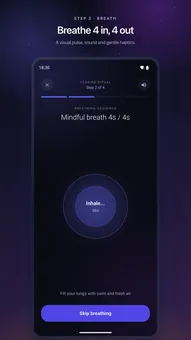
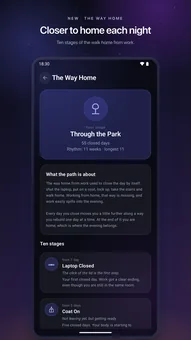
CL-WEB: novinky verze 1.3.0 a nové screenshoty
- nová sekce o Cestě domů a Noční obloze, odkaz v navigaci
- aktualizovaný seznam funkcí a odstavec o soukromí (volitelná diagnostika)
- osm screenshotů z Google Play 1.3.0, @2x verze přes srcset
- navigace se vejde i na úzké displeje
- .idea/ v .gitignore

diff --git a/index.html b/index.html
@@ -125,6 +125,7 @@
   }
 
   .site-nav a{
+    white-space:nowrap;
     font-size:14px;
     color:var(--muted);
     text-decoration:none;
@@ -151,6 +152,16 @@
 
   @media (max-width:560px){
     .site-nav ul{ gap:18px; }
+  }
+
+  @media (max-width:420px){
+    .site-nav ul{ gap:12px; }
+    .site-nav a{ font-size:13px; }
+    .site-nav .mark{ font-size:17px; }
+  }
+
+  @media (max-width:374px){
+    .site-nav .nav-screens{ display:none; }
   }
 
   /* ---------- Hero ---------- */
@@ -308,6 +319,13 @@
     font-weight:600;
     font-size:17px;
     margin:0 0 6px;
+  }
+
+  .step-icon{
+    width:24px;
+    height:24px;
+    display:block;
+    margin-top:4px;
   }
 
   .step p{
@@ -529,7 +547,8 @@
     <span class="mark">ClockOut</span>
     <ul>
       <li><a href="#ritual">Ritual</a></li>
-      <li><a href="#screens">Screens</a></li>
+      <li><a href="#way-home">Way home</a></li>
+      <li class="nav-screens"><a href="#screens">Screens</a></li>
       <li><a href="#details">Details</a></li>
       <li><a class="lang-switch" href="cs/" onclick="try{localStorage.setItem('clockout-lang','cs')}catch(e){}">CS</a></li>
     </ul>
@@ -570,7 +589,7 @@
         <div class="num">2</div>
         <div>
           <h3>Breathe</h3>
-          <p>A slow four-second in, four-second out pacer, with a soft visual pulse and a choice of ambient sound.</p>
+          <p>A slow four-second in, four-second out pacer with four animations to choose from, optional ambient sound and gentle haptics.</p>
         </div>
       </div>
       <div class="step">
@@ -590,26 +609,65 @@
     </div>
   </section>
 
+  <section id="way-home">
+    <h2>Every evening, a little closer to home.</h2>
+    <div class="ritual">
+      <div class="step">
+        <div class="num">
+          <svg class="step-icon" viewBox="0 0 24 24" aria-hidden="true"><path d="M4 20c4-2 5-6 8-8s5-1 8-6" fill="none" stroke="currentColor" stroke-width="1.8" stroke-linecap="round"/><circle cx="20" cy="6" r="2" fill="currentColor"/></svg>
+        </div>
+        <div>
+          <h3>The Way Home</h3>
+          <p>Working from home took away the commute that used to end the day. Every day you close takes you a step further on that walk — ten stages, from Laptop Closed, over the Bridge and through the Garden Gate, to Home.</p>
+        </div>
+      </div>
+      <div class="step">
+        <div class="num">
+          <svg class="step-icon" viewBox="0 0 24 24" aria-hidden="true"><path d="M5 7l5 3 4-4 5 7" fill="none" stroke="currentColor" stroke-width="1.4" stroke-linecap="round" stroke-linejoin="round" opacity="0.6"/><circle cx="5" cy="7" r="1.8" fill="currentColor"/><circle cx="10" cy="10" r="1.8" fill="currentColor"/><circle cx="14" cy="6" r="1.8" fill="currentColor"/><circle cx="19" cy="13" r="1.8" fill="currentColor"/><circle cx="8" cy="18" r="1.2" fill="currentColor" opacity="0.6"/></svg>
+        </div>
+        <div>
+          <h3>The Night Sky</h3>
+          <p>Every closed day lights a star in the colour of the mood you closed it with. When a week is in rhythm, its stars join into a constellation — each of the 53 weeks of the year has its own, from the Cup of Tea in January to the Little Fir Tree in December, and they come back every year.</p>
+        </div>
+      </div>
+      <div class="step">
+        <div class="num">
+          <svg class="step-icon" viewBox="0 0 24 24" aria-hidden="true"><path d="M12 3c-3 4-6 6-6 10a6 6 0 0 0 12 0c0-4-3-6-6-10z" fill="none" stroke="currentColor" stroke-width="1.8" stroke-linejoin="round"/></svg>
+        </div>
+        <div>
+          <h3>A quiet collection, not a leaderboard</h3>
+          <p>Nothing is ever lost. A missed day turns nothing off, one weaker week doesn't break your rhythm, and your progress stays even when you clear the history.</p>
+        </div>
+      </div>
+    </div>
+  </section>
+
   <section id="screens">
     <h2>What it looks like</h2>
     <div class="screens">
-      <button type="button" class="screen-thumb" data-full="en/01@2x.webp" aria-label="Enlarge screenshot: daily ritual overview">
-        <img loading="lazy" decoding="async" width="191" height="340" src="en/01.webp" srcset="en/01.webp 1x, en/01@2x.webp 2x" alt="ClockOut — daily ritual overview">
+      <button type="button" class="screen-thumb" data-full="en/01@2x.webp" aria-label="Enlarge screenshot: home screen with today's question and this week">
+        <img loading="lazy" decoding="async" width="191" height="340" src="en/01.webp" srcset="en/01.webp 1x, en/01@2x.webp 2x" alt="ClockOut — home screen with today's question and this week">
       </button>
-      <button type="button" class="screen-thumb" data-full="en/02@2x.webp" aria-label="Enlarge screenshot: park your thoughts step">
-        <img loading="lazy" decoding="async" width="191" height="340" src="en/02.webp" srcset="en/02.webp 1x, en/02@2x.webp 2x" alt="ClockOut — park your thoughts step">
+      <button type="button" class="screen-thumb" data-full="en/02@2x.webp" aria-label="Enlarge screenshot: the night sky with this month's constellations">
+        <img loading="lazy" decoding="async" width="191" height="340" src="en/02.webp" srcset="en/02.webp 1x, en/02@2x.webp 2x" alt="ClockOut — the night sky with this month's constellations">
       </button>
-      <button type="button" class="screen-thumb" data-full="en/03@2x.webp" aria-label="Enlarge screenshot: breathing step">
-        <img loading="lazy" decoding="async" width="191" height="340" src="en/03.webp" srcset="en/03.webp 1x, en/03@2x.webp 2x" alt="ClockOut — breathing step">
+      <button type="button" class="screen-thumb" data-full="en/03@2x.webp" aria-label="Enlarge screenshot: the way home, ten stages of the walk home from work">
+        <img loading="lazy" decoding="async" width="191" height="340" src="en/03.webp" srcset="en/03.webp 1x, en/03@2x.webp 2x" alt="ClockOut — the way home, ten stages of the walk home from work">
       </button>
-      <button type="button" class="screen-thumb" data-full="en/04@2x.webp" aria-label="Enlarge screenshot: turn off the desk lamp step">
-        <img loading="lazy" decoding="async" width="191" height="340" src="en/04.webp" srcset="en/04.webp 1x, en/04@2x.webp 2x" alt="ClockOut — turn off the desk lamp step">
+      <button type="button" class="screen-thumb" data-full="en/04@2x.webp" aria-label="Enlarge screenshot: park your thoughts step">
+        <img loading="lazy" decoding="async" width="191" height="340" src="en/04.webp" srcset="en/04.webp 1x, en/04@2x.webp 2x" alt="ClockOut — park your thoughts step">
       </button>
-      <button type="button" class="screen-thumb" data-full="en/05@2x.webp" aria-label="Enlarge screenshot: log how you feel step">
-        <img loading="lazy" decoding="async" width="191" height="340" src="en/05.webp" srcset="en/05.webp 1x, en/05@2x.webp 2x" alt="ClockOut — log how you feel step">
+      <button type="button" class="screen-thumb" data-full="en/05@2x.webp" aria-label="Enlarge screenshot: breathing step">
+        <img loading="lazy" decoding="async" width="191" height="340" src="en/05.webp" srcset="en/05.webp 1x, en/05@2x.webp 2x" alt="ClockOut — breathing step">
       </button>
-      <button type="button" class="screen-thumb" data-full="en/06@2x.webp" aria-label="Enlarge screenshot: ritual history overview">
-        <img loading="lazy" decoding="async" width="191" height="340" src="en/06.webp" srcset="en/06.webp 1x, en/06@2x.webp 2x" alt="ClockOut — ritual history overview">
+      <button type="button" class="screen-thumb" data-full="en/06@2x.webp" aria-label="Enlarge screenshot: turn off the desk lamp step">
+        <img loading="lazy" decoding="async" width="191" height="340" src="en/06.webp" srcset="en/06.webp 1x, en/06@2x.webp 2x" alt="ClockOut — turn off the desk lamp step">
+      </button>
+      <button type="button" class="screen-thumb" data-full="en/07@2x.webp" aria-label="Enlarge screenshot: log how you feel step">
+        <img loading="lazy" decoding="async" width="191" height="340" src="en/07.webp" srcset="en/07.webp 1x, en/07@2x.webp 2x" alt="ClockOut — log how you feel step">
+      </button>
+      <button type="button" class="screen-thumb" data-full="en/08@2x.webp" aria-label="Enlarge screenshot: history of moods, answers and the night sky">
+        <img loading="lazy" decoding="async" width="191" height="340" src="en/08.webp" srcset="en/08.webp 1x, en/08@2x.webp 2x" alt="ClockOut — history of moods, answers and the night sky">
       </button>
     </div>
   </section>
@@ -619,19 +677,22 @@
       <div>
         <h2>What's inside</h2>
         <ul class="checklist">
-          <li>Daily reminder at the end of your workday, with quick time presets</li>
+          <li>Daily reminder at the end of your workday — quick presets or your own time</li>
           <li>Weekdays only, or every day — your choice</li>
-          <li>Streaks and history, without the pressure of a leaderboard</li>
-          <li>Four ambient sounds: singing bowl, rain, ocean, or silence with haptics</li>
+          <li>The Way Home with a weekly rhythm, and a night sky of 53 constellations</li>
+          <li>A history of your moods and answers, without the pressure of a leaderboard</li>
+          <li>Four breathing animations, and four ambient sounds: singing bowl, rain, ocean, or silence with haptics</li>
           <li>Import your own MP3, WAV, OGG, M4A or FLAC to loop during the ritual</li>
+          <li>Flexible schedule — allow the ritual at any hour, not just 16:00–21:00</li>
           <li>English and Czech, switchable in the app</li>
-          <li>Material 3 design with a calm dark theme</li>
+          <li>Material 3 design with a calm dark theme, and a screen that stays awake for the whole ritual</li>
         </ul>
       </div>
       <div class="privacy">
         <h2>Private by design</h2>
-        <p><strong>Everything stays on your phone.</strong> Notes, moods and history live in a local database — no account, no cloud sync, no ads.</p>
-        <p>Nothing you write is ever uploaded. Wipe it all with one tap in Settings, any time.</p>
+        <p><strong>Everything stays on your phone.</strong> Notes, moods, history and your night sky live in a local database — no account, no cloud sync, no ads.</p>
+        <p>Nothing you write is ever uploaded. Clear your history with one tap in Settings, any time; the path and the sky keep only the dates of the days you closed.</p>
+        <p>Anonymous diagnostics that help fix bugs are optional and stay off unless you allow them.</p>
       </div>
     </div>
   </section>

diff --git a/README.md b/README.md
@@ -26,20 +26,20 @@ Then enable Pages the same way as step 4 above.
 
 ## What's in the page
 
-- Sticky nav with anchor links to Ritual / Screens / Details.
+- Sticky nav with anchor links to Ritual / Way home / Screens / Details.
 - Hero with a Material `Lightbulb` icon and pulsing halo, matching the in-app ritual — dims on scroll, relights back at the top.
 - Self-contained "Get it on Google Play" button (no dependency on Google's hotlinked badge image).
+- "The Way Home" and "The Night Sky" section (the progression added in 1.3.0).
 - Screenshot strip, feature checklist, and a short privacy note.
 - Floating back-to-top button that fades in after scrolling.
 
 ## Notes / next steps
 
-- Screenshots are currently hotlinked directly from the Play Store CDN. That works fine on a real domain, but for long-term reliability, consider exporting your own screenshots into an `/assets` folder and swapping the `src` attributes.
-- Copy is in English only, matching the primary Play Store listing. The app itself supports Czech — a language toggle would be a natural next step if you want a CZ version of the page.
+- Screenshots in `en/` and `cs/` are the Play Store screenshots of that language (`play/screenshots/<lang>/01–08.png` in the app repo) scaled down to WebP at 191 × 340 and 382 × 680 (`@2x`, served through `srcset`). After re-rendering the Play screenshots, regenerate them with Pillow — `Image.resize(..., LANCZOS).save(..., "WEBP", quality=82, method=6)` — and keep the order and `alt` texts in `index.html` and `cs/index.html` in step.
 - Once you have a custom domain, add a `CNAME` file with the domain name at the repo root and point your DNS at GitHub's Pages IPs / `ruzickaond.github.io`.
 
 ## Languages
 
-The site is bilingual: English at the root (`/`), Czech under `/cs/`. Visitors whose browser language is Czech get auto-redirected to `/cs/` on first visit; the choice is remembered in `localStorage` after that (manual switch via the EN/CS link in the nav always wins). Both versions share the same screenshots in `/en/`.
+The site is bilingual: English at the root (`/`), Czech under `/cs/`. Visitors whose browser language is Czech get auto-redirected to `/cs/` on first visit; the choice is remembered in `localStorage` after that (manual switch via the EN/CS link in the nav always wins). Each version shows the screenshots of its own language, `/en/` and `/cs/`.
 
 When editing copy, keep both `index.html` and `cs/index.html` in sync structurally (same sections/ids), since they share the same CSS and JS inline in each file.
